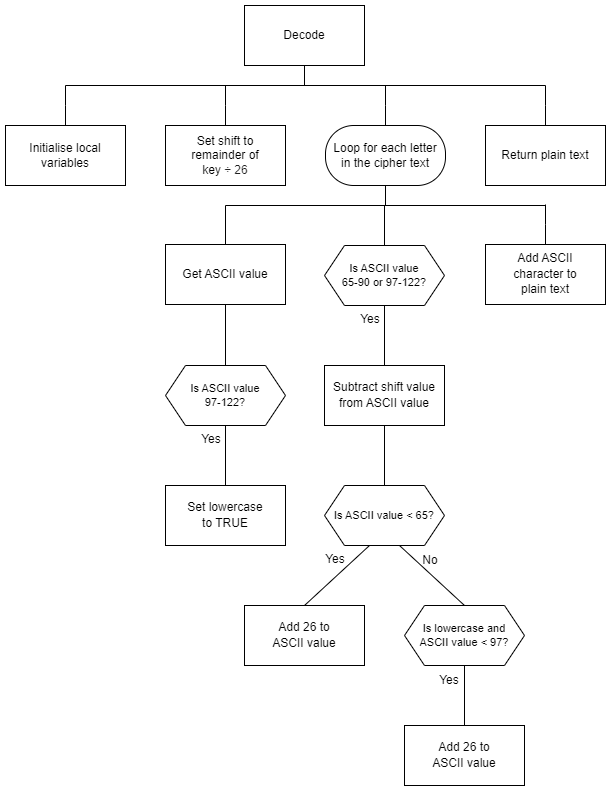
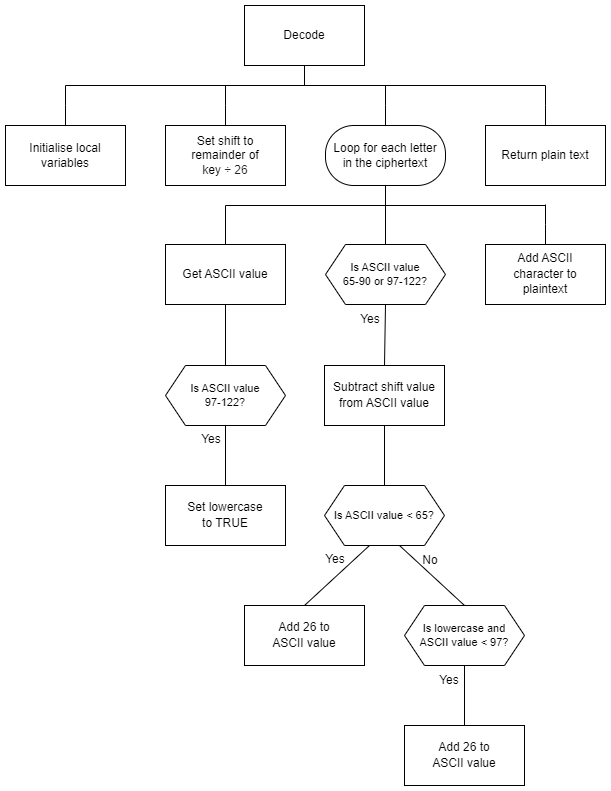
Minor changes

Changed region(s): [[0.5286, 0.2731, 0.7463, 0.4551], [0.5597, 0.182, 0.7152, 0.2124], [0.8396, 0.3641, 0.9329, 0.3944]]

diff --git a/higher/H-SDD-Caesar-Cipher/instructions.md b/higher/H-SDD-Caesar-Cipher/instructions.md
@@ -1,9 +1,9 @@
-# H SDD - Caesar Cipher  
+# H SDD - Caesar Cipher Part 1
 
 
 ## Introduction
 
-A Caesar cipher is a simple shift cipher.  Each letter of a plain text message is shifted a set number of places.
+A Caesar cipher is a simple shift cipher.  Each letter of a plaintext message is shifted a set number of places.
 
 With a shift of 3, __a__ becomes __d__, and __m__ becomes __p__.  The end of the alhpabet wraps around to the beginning.
 
@@ -12,9 +12,9 @@ Julius Caesar used the cipher to encrypt messages over 2,000 years ago but today
 
 ## Task
 
-Use the structure diagram to create a sub-program that will encrypt a plain text message and return the cipher text.
+Use the structure diagram to create a sub-program that will encrypt a plaintext message and return the ciphertext.
 
-All punctuation and spaces are ignored.  The cipher text will be lowercase.
+All punctuation and spaces are ignored.  The ciphertext will be lowercase.
 
 Save the code as `caesar.py`.
 

diff --git a/higher/H-SDD-Caesar-Cipher/instructions2.md b/higher/H-SDD-Caesar-Cipher/instructions2.md
@@ -3,9 +3,9 @@
 
 ## Task
 
-Use the structure diagram to create a sub-program that will decrypt a cipher text message and return the plain text.
+Use the structure diagram to create a sub-program that will decrypt a ciphertext message and return the plaintext.
 
-All punctuation and spaces are maintained.  The plain text will have the same case as the cipher text.
+All punctuation and spaces are maintained.  The plaintext will have the same case as the ciphertext.
 
 Save the code as `caesar.py`.
 
